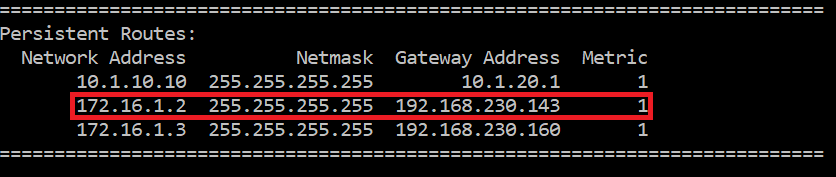
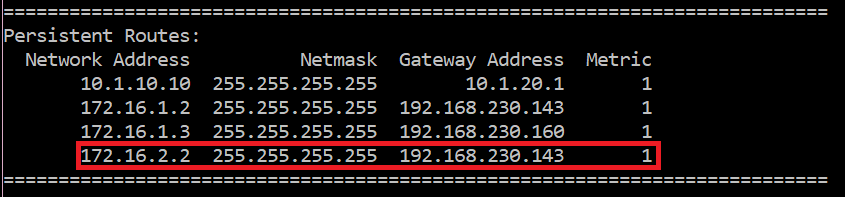
fix: minor fix on naming image and ip example

diff --git a/docs/phase-1-virtual-sandbox/00-vm-provisioning-architecture.md b/docs/phase-1-virtual-sandbox/00-vm-provisioning-architecture.md
@@ -11,14 +11,14 @@
 
 ## 🗺 Topologi Jaringan & Arsitektur
 
-![gambar 0.0](/assets/phase-1-sandbox/skema-visual-create-vm.drawio.png)
+![Phase1.00 gambar 1](/assets/phase-1-sandbox/skema-visual-create-vm.drawio.png)
 
 ### Tabel Alokasi Sumber Daya Virtual (VMware Workstation)
 
-| VM Name                     | vCPU (Cores) | RAM (Instalasi) | RAM (Runtime) | Storage Capacity    | OS / Versi                      |
-| --------------------------- | ------------ | --------------- | ------------- | ------------------- | ------------------------------- |
-| ubuntu-server-1-24 (Master) | 1 Core       | 4 GB            | 2 GB          | 20 GB (Single File) | Ubuntu 24.04 LTS (LVM)          |
-| ubuntu-server-2-24 (Slave)  | 1 Core       | - (Kloning)     | 2 GB          | 20 GB (Linked Disk) | Ubuntu 24.04 LTS (LVM) [17, 18] |
+| VM Name                       | vCPU (Cores) | RAM (Instalasi) | RAM (Runtime) | Storage Capacity    | OS / Versi                      |
+| ----------------------------- | ------------ | --------------- | ------------- | ------------------- | ------------------------------- |
+| Ubuntu_Server_1.2_24 (Master) | 1 Core       | 4 GB            | 2 GB          | 20 GB (Single File) | Ubuntu 24.04 LTS (LVM)          |
+| Ubuntu_Server_2.2_24 (Slave)  | 1 Core       | - (Kloning)     | 2 GB          | 20 GB (Linked Disk) | Ubuntu 24.04 LTS (LVM) [17, 18] |
 
 ---
 
@@ -30,26 +30,26 @@
 - **Urutan Langkah pada VMware GUI:**
 
 1.  Buka VMware Workstation Pro, lalu pilih **Create a New Virtual Machine**.
-    ![gambar 0.1](/assets/phase-1-sandbox/New-VM1.1.PNG)
+    ![Phase1.00 gambar 2](/assets/phase-1-sandbox/New-VM1.1.PNG)
 2.  Pilih jenis instalasi **Typical (recommended)**, lalu klik _Next_.
-    ![gambar 0.2](/assets/phase-1-sandbox/New-VM1.2.PNG)
+    ![Phase1.00 gambar 3](/assets/phase-1-sandbox/New-VM1.2.PNG)
 3.  Pilih **Installer disc image file (iso)**, arahkan _path_ ke file `.iso` Ubuntu 24.04 LTS Anda.
-    ![gambar 0.3](/assets/phase-1-sandbox/New-VM1.3.PNG)
+    ![Phase1.00 gambar 4](/assets/phase-1-sandbox/New-VM1.3.PNG)
 4.  Isi kolom informasi pengguna (Nama, Username, Password) sesuai kebutuhan lab Anda.
-    ![gambar 0.4](/assets/phase-1-sandbox/New-VM1.4.PNG)
+    ![Phase1.00 gambar 5](/assets/phase-1-sandbox/New-VM1.4.PNG)
 5.  Beri nama VM pertama Anda, misalnya `ubuntu-server-1-24`.
-    ![gambar 0.5](/assets/phase-1-sandbox/New-VM1.5.PNG)
+    ![Phase1.00 gambar 6](/assets/phase-1-sandbox/New-VM1.5.PNG)
 6.  Pada kapasitas disk, masukkan **20.0 GB** dan pilih opsi **Store virtual disk as a single file** untuk performa I/O yang lebih stabil.
-    ![gambar 0.6](/assets/phase-1-sandbox/New-VM1.6.PNG)
+    ![Phase1.00 gambar 7](/assets/phase-1-sandbox/New-VM1.6.PNG)
 7.  Klik tombol **Customize Hardware** sebelum menekan _Finish_ untuk mengoptimalkan pengaturan berikut:
     - **Memory:** Atur sementara ke **4096 MB (4 GB)**. Alokasi ini penting untuk mencegah kegagalan dekompresi paket sistem operasi saat proses instalasi.
     - **Processors:** Atur menjadi **1 Core**.
     - **Display:** Hilangkan centang pada opsi **Accelerate 3D graphics**. Menonaktifkan fitur ini sangat krusial untuk mencegah pembebanan CPU host berlebih saat proses render instalatur grafis.
-      ![gambar 0.7](/assets/phase-1-sandbox/New-VM1.7.PNG)
-      ![gambar 0.8](/assets/phase-1-sandbox/New-VM1.8.PNG)
+      ![Phase1.00 gambar 8](/assets/phase-1-sandbox/New-VM1.7.PNG)
+      ![Phase1.00 gambar 9](/assets/phase-1-sandbox/New-VM1.8.PNG)
 
 8.  Klik _Close_, lalu klik _Finish_.
-    ![gambar 0.9](/assets/phase-1-sandbox/New-VM1.9.PNG)
+    ![Phase1.00 gambar 10](/assets/phase-1-sandbox/New-VM1.9.PNG)
 
 ---
 
@@ -59,20 +59,20 @@
 - **Urutan Langkah pada VM Console:**
 
 1.  Nyalakan VM, tunggu hingga layar instalasi bahasa muncul, pilih bahasa sesuai keinginan Anda, lalu klik _Next_.
-    ![gambar 0.10](/assets/phase-1-sandbox/New-VM1.10.PNG)
+    ![Phase1.00 gambar 11](/assets/phase-1-sandbox/New-VM1.10.PNG)
 2.  Pilih opsi **Interactive Installation** untuk mengontrol penuh konfigurasi sistem.
-    ![gambar 0.12](/assets/phase-1-sandbox/New-VM1.12.PNG)
+    ![Phase1.00 gambar 12](/assets/phase-1-sandbox/New-VM1.12.PNG)
 3.  Pilih **Default Installation** (opsi ini sudah memadai untuk kebutuhan pembelajaran sandbox kita).
-    ![gambar 0.13](/assets/phase-1-sandbox/New-VM1.13.PNG)
+    ![Phase1.00 gambar 13](/assets/phase-1-sandbox/New-VM1.13.PNG)
 4.  Pada halaman _Installation Type_, centang **Erase disk and install Ubuntu**, lalu klik tombol **Advanced Features** [19].
-    ![gambar 0.15](/assets/phase-1-sandbox/New-VM1.15.PNG)
+    ![Phase1.00 gambar 14](/assets/phase-1-sandbox/New-VM1.15.PNG)
 5.  Di dalam menu Advanced Features, pilih **Use LVM (Logical Volume Manager)**, lalu klik _OK_ [19].
-    ![gambar 0.16](/assets/phase-1-sandbox/New-VM1.16.PNG)
+    ![Phase1.00 gambar 15](/assets/phase-1-sandbox/New-VM1.16.PNG)
 6.  Lanjutkan proses dengan membuat akun administratif utama, menentukan zona waktu (Region), lalu klik **Install**.
-    ![gambar 0.17](/assets/phase-1-sandbox/New-VM1.17.PNG)
-    ![gambar 0.18](/assets/phase-1-sandbox/New-VM1.18.PNG)
+    ![Phase1.00 gambar 16](/assets/phase-1-sandbox/New-VM1.17.PNG)
+    ![Phase1.00 gambar 17](/assets/phase-1-sandbox/New-VM1.18.PNG)
 7.  Tunggu hingga proses instalasi selesai (durasi bergantung pada kecepatan SSD host). Setelah selesai, pilih **Restart Now**.
-    ![gambar 0.19](/assets/phase-1-sandbox/New-VM1.19.PNG)
+    ![Phase1.00 gambar 18](/assets/phase-1-sandbox/New-VM1.19.PNG)
 
 ---
 
@@ -82,12 +82,12 @@
 - **Perintah & Langkah GUI:**
 
 1.  Setelah sistem berhasil masuk ke desktop baru untuk pertama kali, matikan VM secara aman (_Shutdown_).
-2.  Buka _Virtual Machine Settings_ untuk VM `ubuntu-server-1-24`.
+2.  Buka _Virtual Machine Settings_ untuk VM `Ubuntu_Server_1.2_24`.
 3.  Pada bagian **Memory**, turunkan kapasitasnya kembali menjadi **2048 MB (2 GB)** untuk menghemat RAM fisik host Anda. Klik _OK_.
 4.  Di menu navigasi atas VMware, pilih menu **VM** -> **Snapshot** -> **Take Snapshot...** [18]
-    ![gambar 0.23](/assets/phase-1-sandbox/New-VM1.23.PNG)
+    ![Phase1.00 gambar 19](/assets/phase-1-sandbox/New-VM1.23.PNG)
 5.  Beri nama snapshot ini `Fresh Install` atau `Base`, lalu isi deskripsi dengan _"Instalasi bersih Ubuntu 24.04 LTS dengan partisi LVM sebelum optimasi jaringan."_ Klik _Take Snapshot_.
-    ![gambar 0.24](/assets/phase-1-sandbox/New-VM1.24.PNG)
+    ![Phase1.00 gambar 20](/assets/phase-1-sandbox/New-VM1.24.PNG)
 
 ---
 
@@ -97,12 +97,12 @@
 - **Urutan Langkah pada VMware GUI:**
 
 1.  Klik kanan pada VM `ubuntu-server-1-24` di menu library VMware, pilih **Manage** -> **Clone...** [18]
-    ![gambar 0.25](/assets/phase-1-sandbox/New-VM1.25.PNG)
+    ![Phase1.00 gambar 21](/assets/phase-1-sandbox/New-VM1.25.PNG)
 2.  Pada jendela Clone Wizard, klik _Next_.
 3.  Di bagian _Clone Source_, pilih opsi **An existing snapshot (powered off only)**, lalu pilih nama snapshot `Fresh Install` yang telah Anda buat sebelumnya. Klik _Next_ [18].
-    ![gambar 0.26](/assets/phase-1-sandbox/New-VM1.26.PNG)
+    ![Phase1.00 gambar 22](/assets/phase-1-sandbox/New-VM1.26.PNG)
 4.  Di bagian _Clone Type_, pilih **Create a linked clone** (Pilihan mutlak untuk efisiensi penyimpanan) [17, 18].
-    ![gambar 0.28](/assets/phase-1-sandbox/New-VM1.28.PNG)
+    ![Phase1.00 gambar 23](/assets/phase-1-sandbox/New-VM1.28.PNG)
 5.  Beri nama VM baru ini `ubuntu-server-2-24`, tentukan folder penyimpanannya, lalu klik _Finish_.
 
 ---
@@ -112,15 +112,15 @@
 - **Penjelasan Singkat:** Menyesuaikan kapasitas hardware Server 2 hasil kloning dan menambahkan adapter jaringan segmen LAN internal.
 - **Urutan Langkah pada VMware GUI:**
 
-1.  Klik pada VM `ubuntu-server-2-24` baru hasil kloning, pilih **Edit virtual machine settings**.
-    ![gambar 0.29](/assets/phase-1-sandbox/Edit-VM-Settings1.1.PNG)
+1.  Klik pada VM `Ubuntu_Server_2.2_24` baru hasil kloning, pilih **Edit virtual machine settings**.
+    ![Phase1.00 gambar 24](/assets/phase-1-sandbox/Edit-VM-Settings1.1.PNG)
 2.  Pastikan kapasitas RAM telah terkonfigurasi ke **2048 MB (2 GB)** dan Prosesor ke **1 Core**.
-    ![gambar 0.30](/assets/phase-1-sandbox/Edit-VM-Settings1.2.PNG)
+    ![Phase1.00 gambar 25](/assets/phase-1-sandbox/Edit-VM-Settings1.2.PNG)
 3.  Klik tombol **Add...** di bagian bawah, pilih **Network Adapter**, lalu klik _Finish_.
-    ![gambar 0.31](/assets/phase-1-sandbox/Edit-VM-Settings1.3.PNG)
+    ![Phase1.00 gambar 26](/assets/phase-1-sandbox/Edit-VM-Settings1.3.PNG)
 4.  Pada Network Adapter baru yang muncul (Adapter 2), ubah tipenya menjadi **LAN Segment**.
 5.  Klik tombol **LAN Segments...**, buat segmen baru bernama `JALUR_INTERNAL` (jika belum ada), lalu pilih nama segmen tersebut dari menu _dropdown_. Klik _OK_.
-    ![gambar 0.32](/assets/phase-1-sandbox/Edit-VM-Settings1.4.PNG)
+    ![Phase1.00 gambar 27](/assets/phase-1-sandbox/Edit-VM-Settings1.4.PNG)
 
 ---
 

diff --git a/docs/phase-1-virtual-sandbox/01-basic-networking.md b/docs/phase-1-virtual-sandbox/01-basic-networking.md
@@ -26,8 +26,8 @@ Berikut adalah revisi lengkap **Modul 01** yang telah disempurnakan. Saya telah 
 | Device Name        | Interface    | IP Address / Subnet    | VLAN / Note                         |
 | ------------------ | ------------ | ---------------------- | ----------------------------------- |
 | Windows Host       | VMnet8 (NAT) | 192.168.230.1 /24      | Default Gateway VM untuk akses luar |
-| ubuntu-server-1-24 | ens33 (NAT)  | DHCP (192.168.230.134) | Jalur pembaruan sistem & paket      |
-| ubuntu-server-1-24 | ens37 (LAN)  | 172.16.1.2 /24         | Segmen lokal internal terisolasi    |
+| ubuntu-server-1-24 | ens33 (NAT)  | DHCP (192.168.230.143) | Jalur pembaruan sistem & paket      |
+| ubuntu-server-1-24 | ens37 (LAN)  | 172.16.2.2 /24         | Segmen lokal internal terisolasi    |
 
 ---
 
@@ -85,7 +85,7 @@ network:
     ens37:
       dhcp4: false
       addresses:
-        - 172.16.1.2/24
+        - 172.16.2.2/24
       nameservers:
         addresses: [4.2.2.2, 8.8.8.8]
       routes:
@@ -105,12 +105,12 @@ ubuntu@ubuntu-server-1-24:~$ sudo netplan apply
 
 ### Langkah 4: Penambahan Rute Statis pada Windows Host
 
-- **Penjelasan Singkat:** Agar host Windows dapat menjangkau IP segmen LAN VM (`172.16.1.2`), kita perlu mendaftarkan rute khusus di dalam tabel routing Windows yang mengarah ke gateway IP NAT VM.
+- **Penjelasan Singkat:** Agar host Windows dapat menjangkau IP segmen LAN VM (`172.16.2.2`), kita perlu mendaftarkan rute khusus di dalam tabel routing Windows yang mengarah ke gateway IP NAT VM.
 - **Perintah CLI / Konfigurasi:**
 
 ```cmd
 :: Jalankan Command Prompt Windows sebagai Administrator
-C:\Windows\system32> route -p add 172.16.1.2 mask 255.255.255.255 192.168.230.134
+C:\Windows\system32> route -p add 172.16.2.2 mask 255.255.255.255 192.168.230.143
 ```
 
 - **Untuk Melihat Hasil Konfigurasi:**
@@ -121,7 +121,7 @@ C:\Windows\system32> route print
 
 ![Modul 01 Isi dari "route print"](/assets/phase-1-sandbox/route-print.PNG)
 
-> _[gambar-basic-networking-1.2]: Output command "route print" pada Command Prompt Windows berada pada Persistent Routes menuju subnet 172.16.1.2 ._
+> _[gambar-basic-networking-1.2]: Output command "route print" pada Command Prompt Windows berada pada Persistent Routes menuju subnet 172.16.2.2 ._
 
 ### Langkah 5: Instalasi & Aktivasi Layanan OpenSSH Server
 
@@ -144,13 +144,21 @@ ubuntu@ubuntu-server-1-24:~$ sudo apt update
 ubuntu@ubuntu-server-1-24:~$ sudo apt install openssh-server -y
 
 # Memastikan layanan SSH aktif dan berjalan otomatis saat booting
-ubuntu@ubuntu-server-1-24:~$ sudo systemctl enable ssh
-ubuntu@ubuntu-server-1-24:~$ sudo systemctl start ssh
+ubuntu@ubuntu-server-1-24:~$ sudo systemctl enable --now ssh
 ```
 
 ### Langkah 6: Migrasi Port Layanan SSH (systemd socket)
 
 - **Penjelasan Singkat:** Mulai Ubuntu 22.04/24.04, penanganan port SSH dikontrol oleh unit `ssh.socket` [6]. Perubahan port pada `/etc/ssh/sshd_config` harus disertai dengan _override_ konfigurasi socket systemd [6].
+
+```bash
+# Membuka sshd_config
+ubuntu@ubuntu-server-1-24:~$ nano /etc/ssh/sshd_config
+
+# Hapus Pagar dan sesuaikan port "#Port 22"  --> "Port 2201"
+Port 2201
+```
+
 - **Perintah CLI / Konfigurasi:**
 
 ```bash
@@ -187,11 +195,11 @@ ubuntu@ubuntu-server-1-24:~$ sudo systemctl restart ssh.socket
 ubuntu@ubuntu-server-1-24:~$ ss -tulpn | grep ssh
 
 # Melakukan uji koneksi dari host Windows menggunakan port custom
-C:\Windows\system32> ssh milnandy@172.16.1.2 -p 2201
+C:\Windows\system32> ssh milnandy@172.16.2.2 -p 2201
 ```
 
 > ![Modul 01 Verifikasi SSH](../assets/phase-1-sandbox/01-ssh-verification.png)
-> _[Instruksi]: Ambil tangkapan layar terminal Cmd Windows saat sukses terhubung ke server 172.16.1.2 lewat SSH pada port 2201._
+> _[Instruksi]: Ambil tangkapan layar terminal Cmd Windows saat sukses terhubung ke server 172.16.2.2 lewat SSH pada port 2201._
 
 ### Log Masalah Terkenal & Solusi (Troubleshooting Log)
 
@@ -204,7 +212,3 @@ C:\Windows\system32> ssh milnandy@172.16.1.2 -p 2201
 3.  **SSH Port Tetap Berjalan di Port 22:**
     - _Gejala:_ Port SSH tidak berubah meskipun file `/etc/ssh/sshd_config` telah dimodifikasi [6].
     - _Solusi:_ Ubuntu 24.04 mengabaikan parameter port di `sshd_config` karena kontrolnya telah diserahkan sepenuhnya ke `ssh.socket` [6]. Konfigurasi wajib dilakukan menggunakan instruksi `systemctl edit ssh.socket` [6].
-
-```
-
-```
